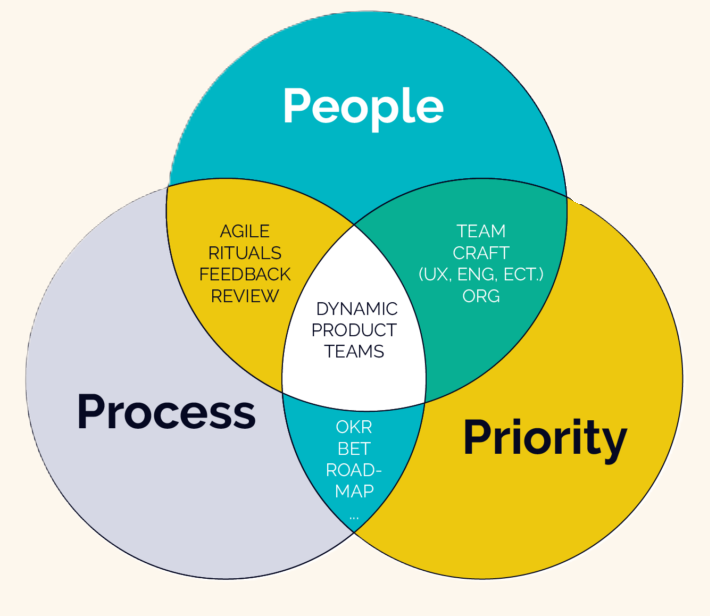
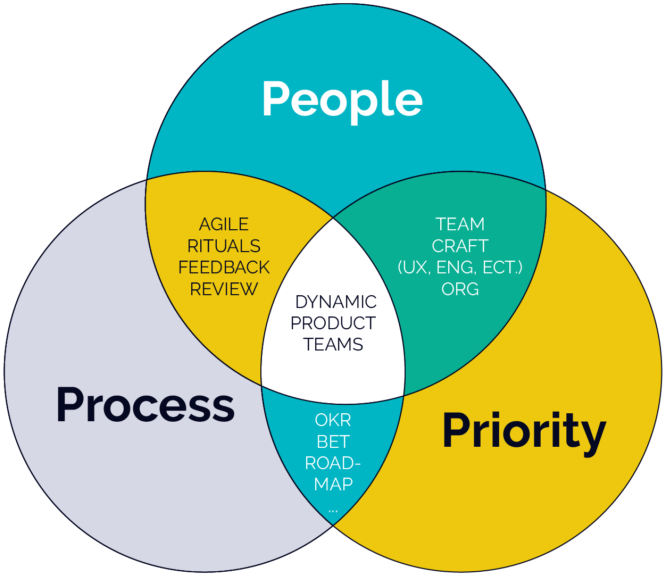
style in the html like a noob

diff --git a/rice.html b/rice.html
@@ -14,10 +14,9 @@
     <div class="topNav">
       <a href="index.html">Home</a>
       <a href="rice.html">RICE</a>
-      <a>MoSCow (Soon)</a>
-      <a>ICE Scoring (Soon)</a>
-      <a>Kano Model (Soon)</a>
-      <a>Value-Effort (Soon)</a>
+      <a style="filter: blur(1.5px);">MoSCow</a>
+      <a style="filter: blur(1.5px);">Kano Model</a>
+      <a style="filter: blur(1.5px);">Value-Effort</a>
     </div>
     <div class="riceShortDescription">
       <p>
@@ -51,7 +50,7 @@
             <th>Impact</th>
             <th>Confidence</th>
             <th>Effort</th>
-            <th id="sortByScore" onclick="sortTable(0)">&#8645;  RICE score</th>
+            <th id="sortByScore" onclick="sortTable(0); saveData()">&#8645;  RICE score</th>
             <th></th>
           </tr>
         </thead>
@@ -77,7 +76,8 @@
             </td>
             <td><input type="number" name="featureEffort" /></td>
             <td id="featureRiceResult"></td>
-            <td><button onclick="calculateRice()">Calculate!</button></td>
+            <td><button onclick="calculateRice(); saveData()">Calculate!</button></td>
+            <!-- <td><button onclick="saveData()">Save Data</button></td> -->
           </tr>
         </tbody>
       </table>

diff --git a/css/style.css b/css/style.css
@@ -15,26 +15,35 @@ h2 {
 body {
     font-family: "Segoe UI", Arial, Helvetica, sans-serif;
     color: black;
-    background-color: rgba(253, 247, 237, 0.877);
+    background-color: rgba(255, 255, 255, 0.877);
 }
 
 .topNav {
+    background-color: #24252A;
     display: flex;
     align-items: center;
     flex-direction: row;
     justify-content: space-evenly;
     font-size: 20px;
-    font-weight: 200;
-    margin-bottom: 30px;
-    row-gap: 10px;
+    font-weight: 100;
+    margin: 0px;
+    padding: 0px;
+    /* row-gap: 10px; */
     text-decoration: none;
+    height: 50px;
 }
   
+.topNav a {
+    cursor: pointer;
+    color: #edf0f1;
+    text-decoration: none;
+}
+
 .topNav a:hover {
     transform: scale(1.07);
-  }
+}
 
-  footer {
+footer {
     position: sticky;
     font-size: 14px;
     font-weight: 100;
@@ -56,8 +65,8 @@ body {
     }
 
 #productManagerDiagram {
-    height: 200px;
-    width: 200px;
+    height: 18%;
+    width: 18%;
     margin-right: 30px;
 }
 
@@ -74,8 +83,8 @@ body {
 #vennDiagram {
     display: block;
     text-align: center;
-    height: 25%;
-    width: 25%;
+    height: 20%;
+    width: 20%;
     margin-left: 30px;
 }
 

diff --git a/index.html b/index.html
@@ -14,15 +14,14 @@
     <div class="topNav">
       <a href="index.html">Home</a>
       <a href="rice.html">RICE</a>
-      <a>MoSCow (Soon)</a>
-      <a>ICE Scoring (Soon)</a>
-      <a>Kano Model (Soon)</a>
-      <a>Value-Effort (Soon)</a>
+      <a style="filter: blur(1.5px);">MoSCow</a>
+      <a style="filter: blur(1.5px);">Kano Model</a>
+      <a style="filter: blur(1.5px);">Value-Effort</a>
     </div>
     <div class="homeDescription1">
       <img id="productManagerDiagram" src="images/product-manager-diagram.png" alt="product-manager-diagram">
       <p>
-        Welcome to <strong>Prioritize.io</strong> - a free tool designed to help product managers prioritize features and tasks with ease.<br>
+        Welcome to <strong>Prioritize.io</strong> - a tool designed to help product managers prioritize features and tasks with ease.<br>
         I created this platform because I understand how overwhelming it can be to juggle competing priorities, stakeholder input, and tight deadlines.<br>
       </p>
     </div>

diff --git a/js/index.js b/js/index.js
@@ -68,6 +68,27 @@ function sortTable() {
   }
 }
 
+function saveData() {
+  const table = document.getElementById("riceTable");
+  const rows = table.querySelectorAll("tbody tr");
+  const dataArray = [];
+
+  rows.forEach(row => {
+    const cells = row.querySelectorAll("td");
+    const rowData = Array.from(cells).map(cell => cell.textContent.trim());
+    dataArray.push(rowData);
+  });
+
+  // Save the data in local storage
+  localStorage.setItem("tableData", JSON.stringify(dataArray));
+  console.log("RICE Calculator data is saved to local storage!");
+} 
+
+// To retrieve the data from local storage later
+const savedData = JSON.parse(localStorage.getItem("tableData"));
+// console.log(savedData);
+
+
 //clear all
 // function clearAllInputs() {
 //   let AllInputs = document.querySelectorAll("riceTable");
